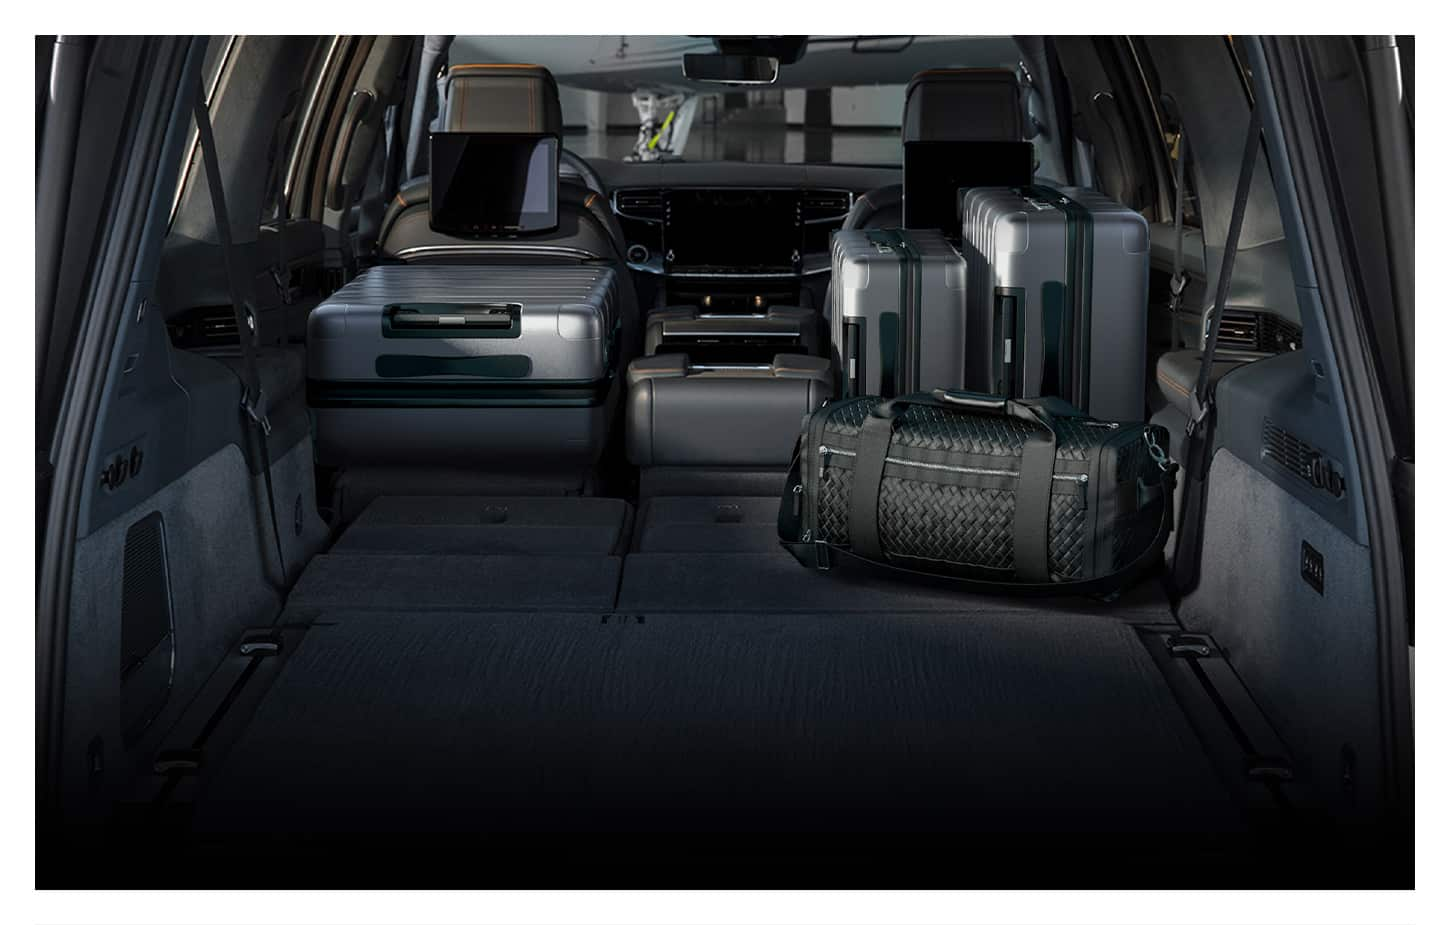
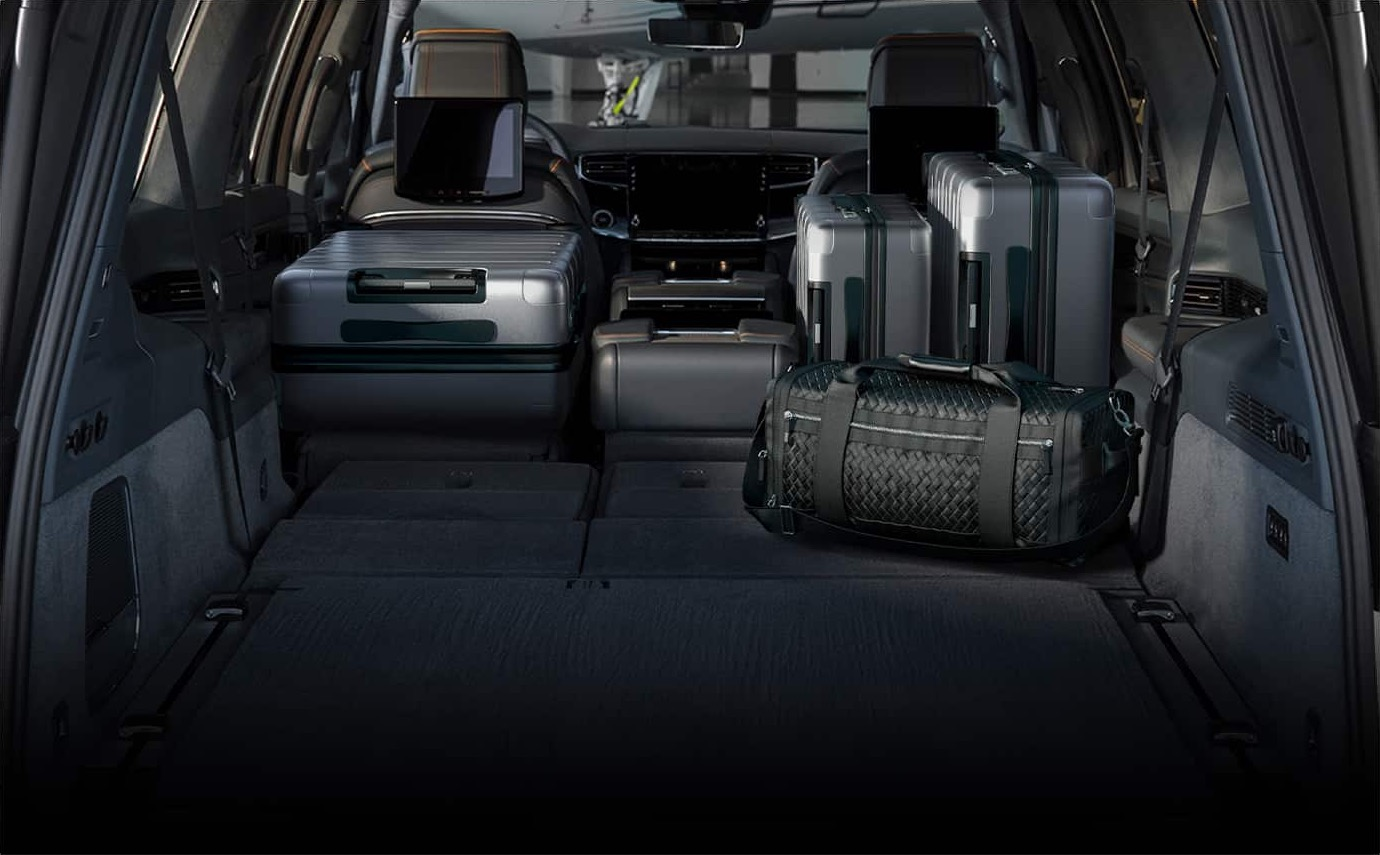
Reorder and crop Grand Wagoneer cabin image

diff --git a/index.html b/index.html
@@ -315,7 +315,7 @@
       border-radius: var(--radius);
     }
 
-    .vehicle-visual img:last-child {
+    .vehicle-visual img:first-child {
       aspect-ratio: 16 / 7;
     }
 
@@ -614,8 +614,8 @@
         </div>
       </div>
       <div class="vehicle-visual">
-        <img src="images/grand-wagoneer-cabin.jpg" alt="Jeep Grand Wagoneer premium cabin with spacious seating">
         <img src="images/grand-wagoneer.png" alt="Black Jeep Grand Wagoneer exterior for private transportation">
+        <img src="images/grand-wagoneer-cabin.jpg" alt="Jeep Grand Wagoneer premium cabin with spacious luggage space">
       </div>
     </div>
   </section>